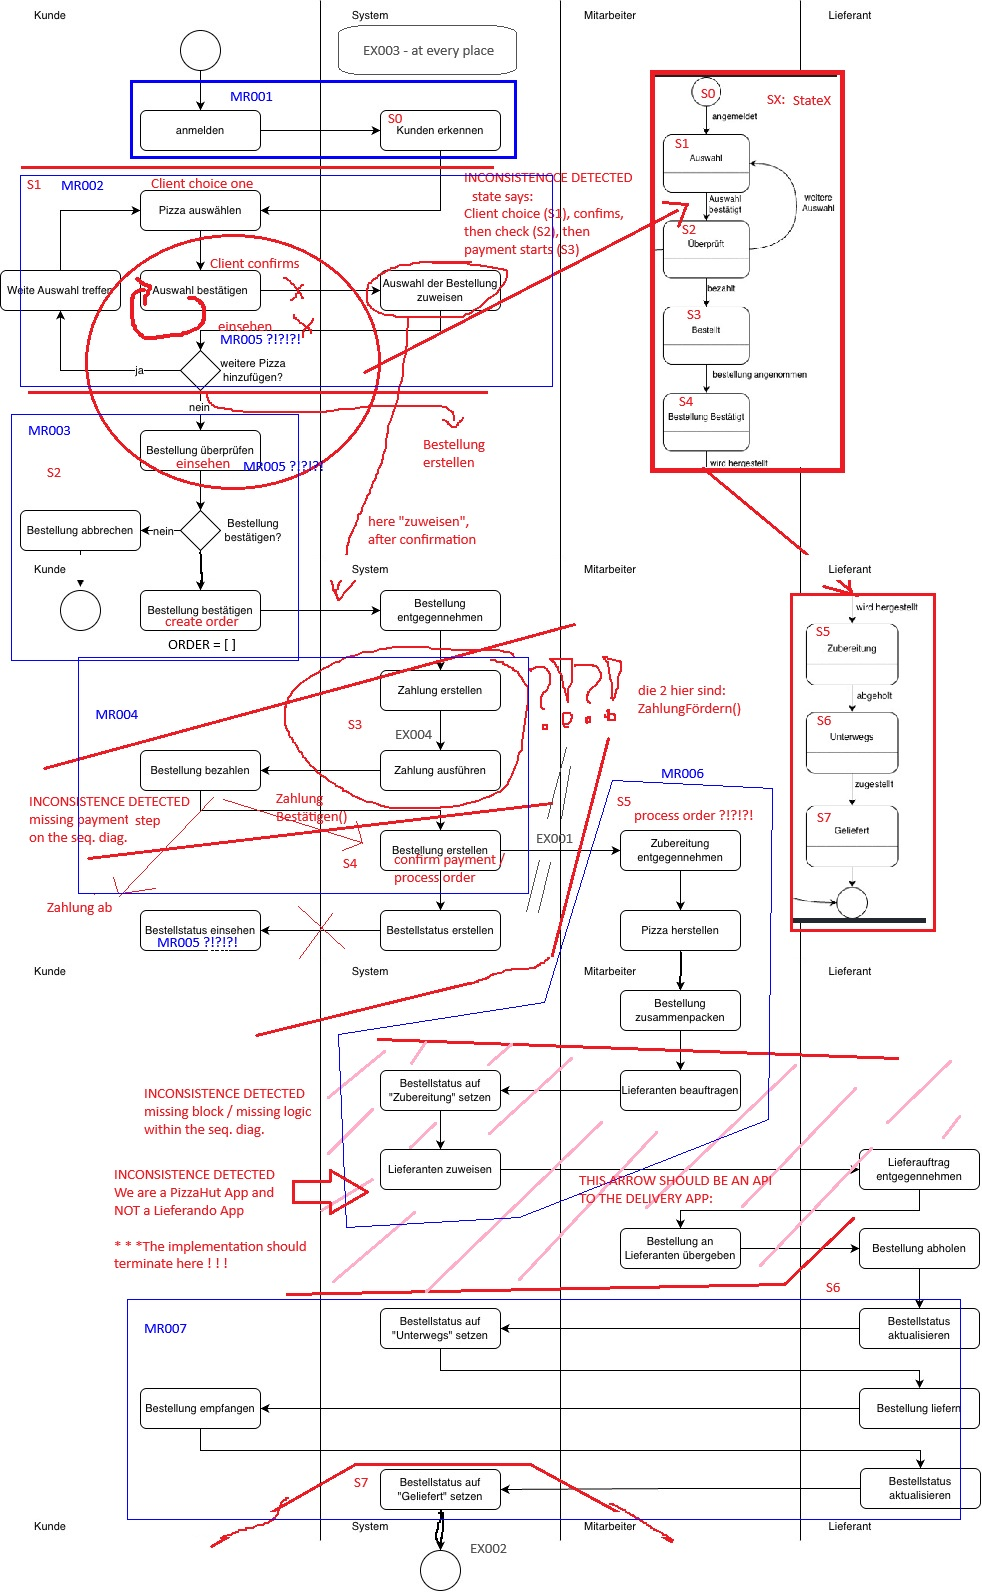
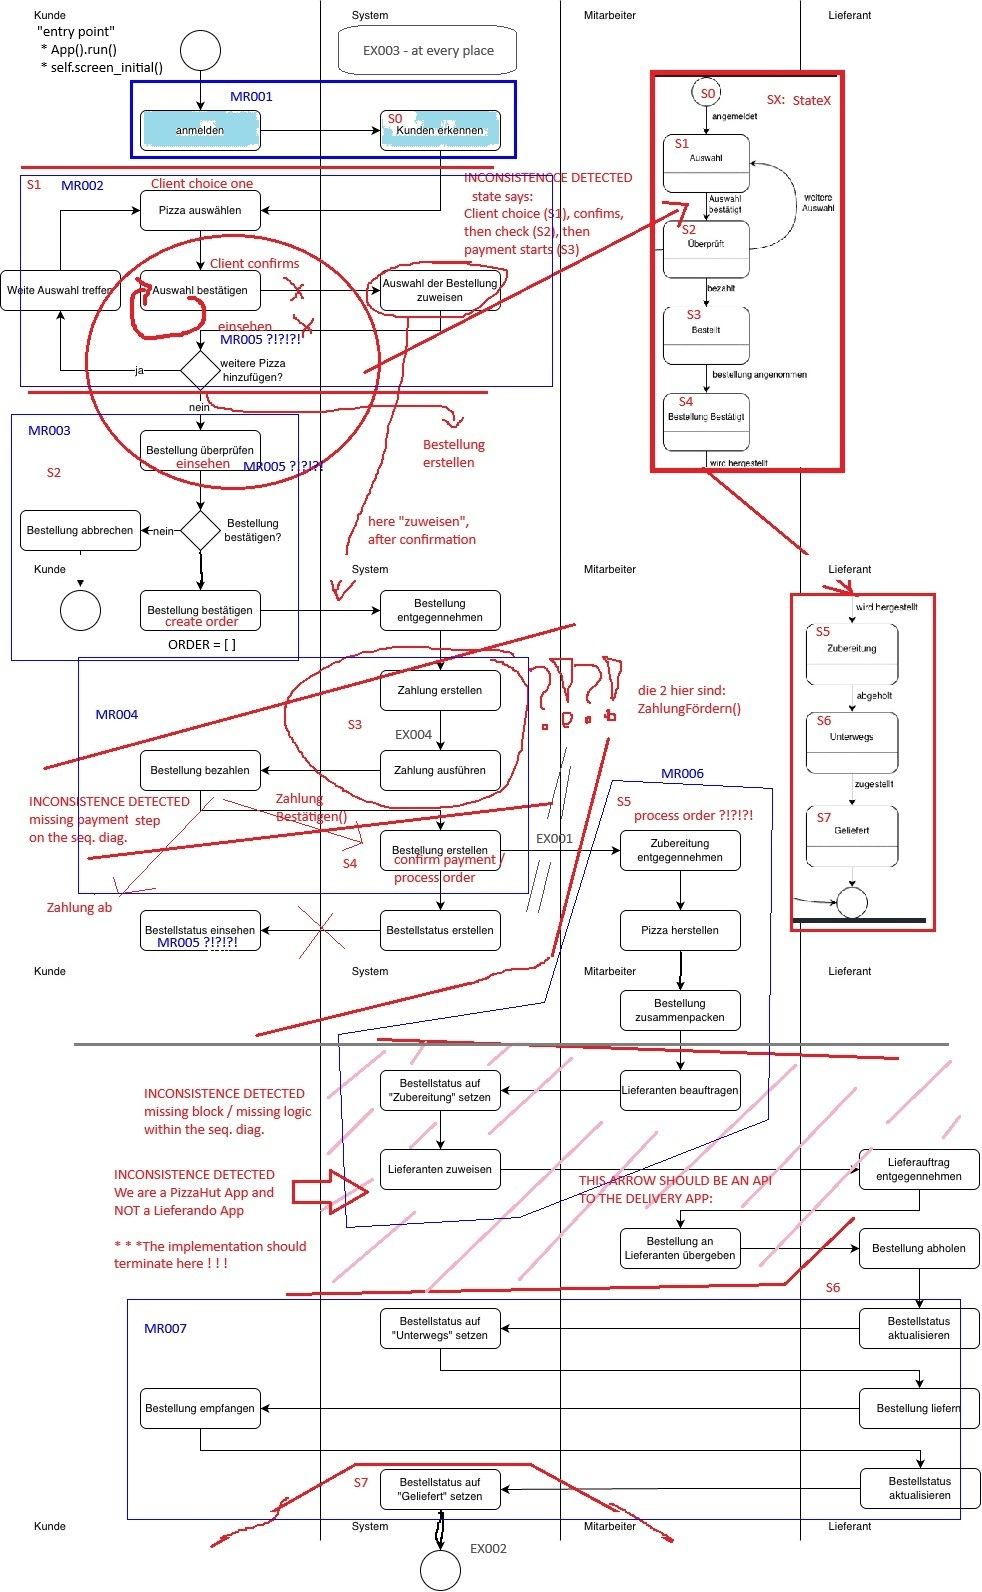
update order and payment, up to MR005

diff --git a/u2026-07-17_project_room3/app/classes/app.py b/u2026-07-17_project_room3/app/classes/app.py
@@ -2,18 +2,25 @@ from datetime import datetime
 import sys
 from pathlib import Path
 import pandas as pd
+from random import random
 
 from hashlib import pbkdf2_hmac
 from hmac import compare_digest
 from base64 import b64decode  # b64encode when create hashes to save
 
-from data.data import *
 from data.log import LOG
+from data.data import *
+# from data/data.py import PIZZAS, ORDERS as list[dict] and it works as a skizze for DB
+# an instantiation is not necessary, because the data can be directly processed as python dict
 
 from classes.person import Person
 from classes.kunde import Kunde
 from classes.mitarbeiter import Mitarbeiter
 from classes.lieferant import Lieferant
+
+# from classes.pizza import Pizza
+# from classes.bestellung import Bestellung
+# NOTE: see the comments at import data
 
 SEPARATOR = "\n" + " ="*20 + "\n"
 
@@ -26,10 +33,10 @@ class App:
         self.mitarbeiter = []
         self.lieferanten = []
 
-        self.user_loggedin = None
-        self.user_classes = []
-
         self.hashes = []
+
+        self.user_classes = []
+        self.user_loggedin = None
 
     def run(self):
         """runnable methods for execution."""
@@ -37,25 +44,19 @@ class App:
         print(SEPARATOR + "  starting system.  " + SEPARATOR)
         self.log_event("system starts.")
 
-        self.load_all_people()
+        # since this version doesn't use a database, all data is loaded either 
+        # from a csv file or from a python variable, as a list (see method docs)
+        self.load_data()
+
+        self.log_event("loaded pizzas menu by imports")
+        self.log_event("loaded orders list by imports")
+        self.log_event("loaded logs by imports")
 
         # ONLY FOR TESTS
         msg = f"\ntry this examples:\n{self.kunden[0]}\n{self.mitarbeiter[0]},\n{self.lieferanten[0]}\n"
         print(msg)
 
-        # Activity Block "Anmelden"
-        user_class = self.screen_initial()
-        response = self.user_login(*user_class)
-
-        # ONLY FOR TESTS
-        print(f"\nresponse from login: \n{response}\n")
-
-        # Activity Block "Kunden erkennen"
-        if response["access"]:
-            self.user_loggedin = response["user"]
-
-
-
+        self.screen_initial()
 
     def terminate(self):
         print(SEPARATOR + "\n  closing system.  \n" + SEPARATOR)
@@ -78,12 +79,13 @@ class App:
         # print(f"LOG at {log_time}: {event_description}")           
 
 
-    # people methods
+    # data methods
 
-    def load_all_people(self) -> None:
+    def load_data(self) -> None:
         """loads some pre defined people from people.csv,
          separate them into clients, employees and deliveries;
-         and save hashes for client login at password.csv
+         and save hashes for client login at password.csv;
+         load pizza menu from data.data.PIZZAS (a python list).
          
          the csv files should be seen as a possible extension for DB see file: 
          Aufgabenstellung, 3.3. Optional / Exweiterung: EX003 and EX004
@@ -155,13 +157,26 @@ class App:
 
     # - - - screen methods - - - 
 
+    def print_message(self, text: str, n: int = 4) -> None:
+        """prints a default one row message between empty rows and with n indentation
+           don't use it for multi rows messages. instead considere use print_option_list.
+        """
+        print("\n" + " "*n + text + " "*n + "\n")
+
+    def print_warning(self, text: str, n: int = 4) -> None:
+        """prints a warning on the screen"""
+        print("\n" + " !"*n + " "*4 + text +" "*4 + " !"*n + "\n")
+        self.log_event(text)
+
     def print_option_list(self, title: str, option_list: dict) -> None:
         msg = " "*4 + f"{title}:\n" + " "*4 + " -"*16 + "\n"
         for k,v in option_list.items():
             msg += " "*4 + f"{k}: {v}\n"
         print(msg)
 
+
     def screen_initial(self) -> int:
+        """MR001 'Anmelden' """
         counter = 0
         o = -1
         title = "Bitte wählen Sie eine Option"
@@ -188,11 +203,12 @@ class App:
 
         if o not in options.keys() or o < 0:
             raise ValueError("invalid value for option at this point.")
-        
-        if o == 0:
+        elif o == 0:
             self.terminate() 
+        else:
+            self.user_login(o,options[o]) 
 
-        return (o,options[o]) 
+        raise InterruptedError("unexpected point at App.screen_initial() have been reached.")
 
 
     def user_login(self, user_class: int, user_mode: str) -> bool:
@@ -208,6 +224,9 @@ class App:
         msg += "\n" + " "*4 + " -"*20
         msg += "\n" + " "*4 + "Bitte geben Sie Ihren Benutzername und Passwort Kommagetrennt"
         msg += "\n" + " "*4 + "e.g. maxsupermustermann, banana1234 oder <Enter> zu Abbrechen."
+        print(SEPARATOR + msg)
+
+        # - - - OPTION BLOCK ONE - - -
 
         stop1, stop2 = False, False
         while not stop1:
@@ -215,7 +234,6 @@ class App:
             if c1 > 5:
                 raise InterruptedError("tries exceeded. app execution interrupted.")
             try:
-                print(SEPARATOR + msg)
                 user_data = input("\n" + " "*4 + "Geben Sie Ihre Logindaten ein: ")
                 if user_data == "" or "," not in user_data:
                     # simple raise to interrupt try block
@@ -226,7 +244,10 @@ class App:
                 print(f"    Benutzername: {user_name}\n    Passwort: {user_pw}")
                 stop1 = True
             except Exception as e:
-                print("\n" + " -"*4 + " "*4 + str(e) +" "*4 + " -"*4 + "\n")
+                self.print_warning(str(e))
+
+                # - - - OPTION BLOCK TWO - - -
+            
                 c2 = 0
                 stop2 = False
                 while not stop2:
@@ -239,8 +260,10 @@ class App:
                         self.print_option_list(title, options)
                         o = int(input("\n" + " "*4 + "Geben Sie den passenden Wert ein: "))
                         if o == 0:
-                            stop1 = True
-                            stop2 = True
+                            self.print_message("Sie werden zurück zum Menu Optionen weitergeleitet")
+                            self.screen_initial()
+                            # stop1 = True
+                            # stop2 = True
                         elif o == 1:
                             stop2 = True
                         else:
@@ -260,7 +283,7 @@ class App:
 
         # - - - login context - - -
 
-        print(f"o: {o}, user_class: {user_class}")
+        # print(f"o: {o}, user_class: {user_class}")
         if user_class == 1:
             database = self.kunden
         elif user_class == 2:
@@ -284,7 +307,7 @@ class App:
             raise ValueError("user password hash not found.")
         hash = hash[0]
 
-        print(user,"\n",hash)
+        # print(f"{user}\n{hash}")
         # sys.exit(0)        
 
         hash_salt = hash["salt"]
@@ -300,7 +323,144 @@ class App:
         attempt_hash = pbkdf2_hmac("sha256", user_pw.encode(), b64_salt, hash_iter)
 
         if compare_digest(attempt_hash, b64_hash):
-            response = {"access":True, "user":user}
+            """MR001 'Kunden erkennen' """
+            self.user_loggedin = user
+            self.print_warning(f"User {self.user_loggedin["id"]}: login successful.")
+            self.create_order({"access":True, "user":user})
+        else:
+            self.print_warning("Login fehlerhaft. Sie werden zurück zur Menu Optionen weitergeleitet.")
+            self.screen_initial()
 
-        return response
-    
+        raise InterruptedError("unexpected point at App.login_user have been reached.")
+
+
+    def create_order(self, rsp_login: dict) -> None:
+        """ MR002 'Pizza auswählen, bestätigen, wiederholen'
+            implements the order process with choice menu
+            {"id": 10, "name":"Margherita", "size":"M", "price": 6.50, "currency":"EUR"},
+            """
+
+        NEW_ORDERS = []
+        PERMITTED_CODES = [p["id"] for p in PIZZAS]
+        print(" "*4 + " -"*20)
+        self.print_message("Sii benvenuto alla pizzeria di Radu. Sentiti libero di sentirti a tuo agio, Belo!")
+
+        pizza_title = "Pizza Menu"
+        pizza_options = dict()
+        for x in [{p["id"]: f'{p["name"]:<20s}{p["size"]:<4s}{p["price"]:>6s} EUR'} for p in PIZZAS]:
+            k, v = next(iter(x.items()))
+            pizza_options[k] = v
+        self.print_option_list(pizza_title, pizza_options)
+
+        # - - - WHILE ONE - - -
+
+        stop1 = False
+        while not stop1:
+            counter = 0
+            msg = " "*4 + "Bitte geben Sie Ihre Bestellung nach 'Pizza Code' ein."
+            msg += "\n" + " "*4 + "Geben Sie 0, um die Bestellung zu beenden"
+            msg += "\n" + " "*4 + "     oder 1, um den Pizza Menu zu wiederholen.\n"
+            print(msg)
+
+            stop2 = False
+            while not stop2:
+                p_id = input(" "*4 +"Gewünschter Code: ")
+                if p_id == "0":
+                    if len(NEW_ORDERS) > 0:
+                        # show the order
+                        stop2 = True
+                    else:
+                        self.print_message("Sie haben keine Pizza bestellt. Möchten Sie wiederholen?")
+                elif p_id == "1":
+                    print("\n\n")
+                    self.print_option_list(pizza_title, pizza_options)
+                elif p_id in PERMITTED_CODES:
+                    # create / add to order -> add an elem to ORDERS LIST
+                    order = {"client_id": self.user_loggedin["id"], "pizza_id":p_id, "order_status":0, "payment_status":0}
+                    NEW_ORDERS.append(order)
+                    self.log_event(f"user {self.user_loggedin["id"]} ordered: {str(order)}")
+                else:
+                    self.print_warning("Sie haben einen ungültigen Code eingegeben.")
+
+
+                if p_id == "0":
+                    """MR005 'Bestellung einsehen' """
+                    self.log_event(f"user {self.user_loggedin["id"]} calls the bill to confirm.")
+                    msg = "\n" + " "*4 + f"Va bene Belo {self.user_loggedin["name"]}. Preparo subito il suo ordine. Buon appetito!"
+                    msg += "\n" + " "*4 + " -"*20
+                    msg += "\n\n" + " "*4 + "Ihre Bestellung ist die folgende: \n"
+                    print(msg)
+
+                    total = 0
+                    qty = len(NEW_ORDERS)
+                    for o in NEW_ORDERS:
+                        pizza_obj = list(filter(lambda x: x["id"] == o["pizza_id"], PIZZAS))[0]
+                        total += float(pizza_obj["price"])
+                        order_str = " "*6 + f'{pizza_obj["name"]:<20s}{pizza_obj["size"]:<4s}{pizza_obj["price"]:>6s} EUR'
+                        print(order_str)
+                    msg = " "*4 + " -"*20
+                    msg += "\n" + " "*6 + f"Belo {self.user_loggedin["name"]}, Ihre Bestellung enthält {qty} Pizz{"en" if qty > 1 else "a"}."
+                    msg += "\n" + " "*6 + f"Gesamtkosten: {total:8.2f} EUR, MwSt Niemals."
+                    print(msg)
+
+                    msg += "\n" + " "*4 + " -"*20
+                    msg = "\n" + " "*4 + "Sie haben Ihre Bestellungsliste vorübergehende beendet. Bitte drucken Sie:"
+                    msg += "\n" + " "*6 + "<ENTER> um Ihre Bestellung zu bestätigen und weiter zur Bezahlung gehen"
+                    msg += "\n" + " "*6 + "  0     um den Vorgang zu wiederholen. Ihre Bestellung wird gespeichert. "
+                    msg += "\n" + " "*6 + "  1     um den Vorgang abzubrechen. Ihre Bestellung wird gelöscht. \n"
+                    print(msg)
+
+                    stop3 = False
+                    while not stop3:
+                        o = input(" "*6 + "Wie möchten Sie weiter: ")
+                        print("\n\n")
+                        if o == "":
+                            self.log_event(f"user {self.user_loggedin["id"]} confirms the order and follow to payment.")
+                            ORDERS.extend(NEW_ORDERS)
+                            self.payment_process()
+                            stop1 = True
+                            stop2 = True
+                            stop3 = True
+                        elif o == "0":
+                            stop2 = True
+                            stop3 = True
+                        elif o == "1":
+                            self.log_event(f"user {self.user_loggedin["id"]} cancels the order and terminate the execution.")
+                            msg = "\n" + " "*4 + " -"*20
+                            msg += "\n" + " "*4 + "Ihr Vorgang wurde abgebrochen und Ihre Bestellung gelöscht.\n"
+                            msg += "\n" + " "*4 + "Grazie per la sua visita.\nCiao Belo!\n"
+                            print(msg)
+                            self.terminate()
+                        else:
+                            msg = "\n" + " "*4 + " -"*20
+                            msg += "\n" + " "*4 + "Bitte geben Sie eine gültige Option ein: <ENTER> , 0 oder 1.\n"
+                            print(msg)
+
+
+        raise InterruptedError("unexpected point at App.create_order have been reached.")
+
+
+    def payment_process(self):
+        """MR004 'Zahlung erstellen, Bestellung bezahlen' 
+            use 2% from random to cancel the payment due technical factors
+            use 1% for insuficient founds
+        """
+
+        n = random()
+        if n <= 0.01:
+            # w/o founds
+            # cancel order and visit
+            pass
+        elif n <= 0.03:
+            # technical interruption e.g. phone line / internet
+            # show excuse message and terminate
+            pass
+        else:
+            # really a pass, go ahead.
+            pass
+
+        print("WE ARE AT PAYMENT PROCESS.\nCALL TERMINATE()\n"+" -"*20)
+        for o in ORDERS:
+            print(o)
+        self.terminate()
+        # sys.exit(0)

diff --git a/u2026-07-17_project_room3/app/data/data.py b/u2026-07-17_project_room3/app/data/data.py
@@ -25,16 +25,17 @@ PAYMENT_STATUS = {
 }
 
 # - - - PIZZA MENU / Skizze einer Pizza Datenbank - - -
+# extensible for a complete menu: pizzas, drinks, desserts, etc, then add key,value "type"
 
 PIZZAS = [
-    {"id": 10, "name":"Margherita", "size":"M", "price": 6.50, "currency":"EUR"},
-    {"id": 20, "name":"Salami", "size":"M", "price": 7.50, "currency":"EUR"},
-    {"id": 30, "name":"Funghi", "size":"M", "price": 7.90, "currency":"EUR"},
-    {"id": 40, "name":"Quattro Stagioni", "size":"G", "price": 9.50, "currency":"EUR"},
-    {"id": 50, "name":"Diavola", "size":"G", "price": 8.90, "currency":"EUR"},
+    {"id": "10", "name":"Margherita", "size":"M", "price": "6.50", "currency":"EUR"},
+    {"id": "20", "name":"Salami", "size":"M", "price": "7.50", "currency":"EUR"},
+    {"id": "30", "name":"Funghi", "size":"M", "price": "7.90", "currency":"EUR"},
+    {"id": "40", "name":"Quattro Stagioni", "size":"G", "price": "9.50", "currency":"EUR"},
+    {"id": "50", "name":"Diavola", "size":"G", "price": "8.90", "currency":"EUR"},
 ]
 
-# - - - Skizze einer Bestellungsdatenbank - - - 
+# - - - Skizze einer M:N Bestellungsdatenbank - - - 
 
 # Bestellungen
 # {client_id: str, pizza_id: str[], order_status: str, payment_status: str}

diff --git a/u2026-07-17_project_room3/app/classes/pizza.py b/u2026-07-17_project_room3/app/classes/pizza.py
@@ -1,5 +1,7 @@
 class Pizza:
-    PERMITTED_ATTR = ["pizzaId", "name", "groesse", "preis"]
+    """assumed, all prices in EURO"""
+
+    PERMITTED_ATTR = ["id", "name", "size", "price"]
     ERROR_ATTR = f"Die Attributen müssen genau die folgenden sein: {', '.join([a for a in PERMITTED_ATTR])}"
 
     def __init__(self, **kwargs: any) -> None:
